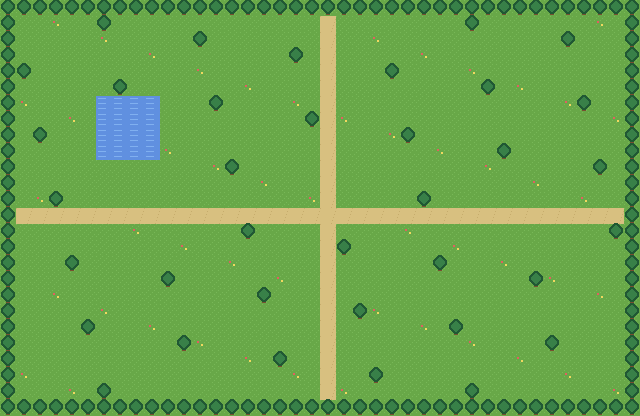
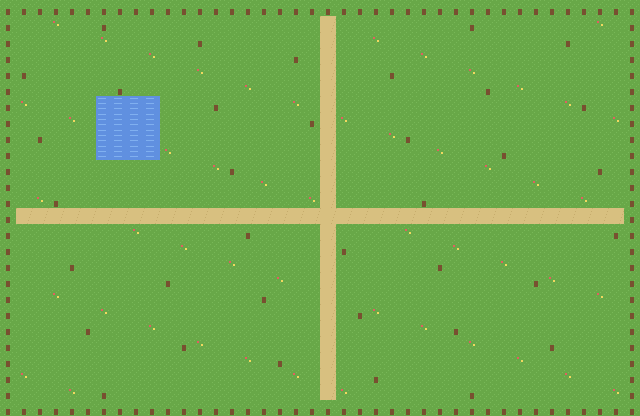
gnhf 1: Moved tree canopy rendering from the map's lower layer to the upper layer in gen_assets.cpp so tree tops now draw over the player (roadmap item 1).

diff --git a/tools/gen_assets.cpp b/tools/gen_assets.cpp
@@ -30,7 +30,7 @@ void drawGrass(Image* img, int ox, int oy) {
             if (((x + y) / 2) % 3 == 0) ImageDrawPixel(img, ox + x, oy + y, GRASS_B);
 }
 
-void drawTile(Image* img, int gx, int gy) {
+void drawTileLower(Image* img, int gx, int gy) {
     const int ox = gx * T, oy = gy * T;
     switch (demomap::tileAt(gx, gy)) {
         case demomap::GRASS:
@@ -54,10 +54,18 @@ void drawTile(Image* img, int gx, int gy) {
         case demomap::TREE:
             drawGrass(img, ox, oy);
             ImageDrawRectangle(img, ox + 6, oy + 9, 4, 6, TRUNK);
-            ImageDrawCircle(img, ox + 8, oy + 6, 7, CANOPY_D);
-            ImageDrawCircle(img, ox + 8, oy + 6, 5, CANOPY);
             break;
     }
+}
+
+// Tree canopy lives on the upper layer, drawn after the player each frame, so
+// the player appears to walk behind the tree trunk while the leaves stay on
+// top. Every other tile has nothing on the upper layer.
+void drawTileUpper(Image* img, int gx, int gy) {
+    if (demomap::tileAt(gx, gy) != demomap::TREE) return;
+    const int ox = gx * T, oy = gy * T;
+    ImageDrawCircle(img, ox + 8, oy + 6, 7, CANOPY_D);
+    ImageDrawCircle(img, ox + 8, oy + 6, 5, CANOPY);
 }
 
 // One 32x32 hero frame at cell (col,row). row = direction, col = walk frame.
@@ -100,12 +108,14 @@ int main() {
     // --- map lower layer ---
     Image lower = GenImageColor(demomap::W * T, demomap::H * T, GRASS_A);
     for (int gy = 0; gy < demomap::H; ++gy)
-        for (int gx = 0; gx < demomap::W; ++gx) drawTile(&lower, gx, gy);
+        for (int gx = 0; gx < demomap::W; ++gx) drawTileLower(&lower, gx, gy);
     ExportImage(lower, "assets/maps/demo_lower.png");
     UnloadImage(lower);
 
-    // --- map upper layer (nothing on top yet: fully transparent) ---
+    // --- map upper layer: tree canopies only, drawn over the player ---
     Image upper = GenImageColor(demomap::W * T, demomap::H * T, BLANK);
+    for (int gy = 0; gy < demomap::H; ++gy)
+        for (int gx = 0; gx < demomap::W; ++gx) drawTileUpper(&upper, gx, gy);
     ExportImage(upper, "assets/maps/demo_upper.png");
     UnloadImage(upper);
 